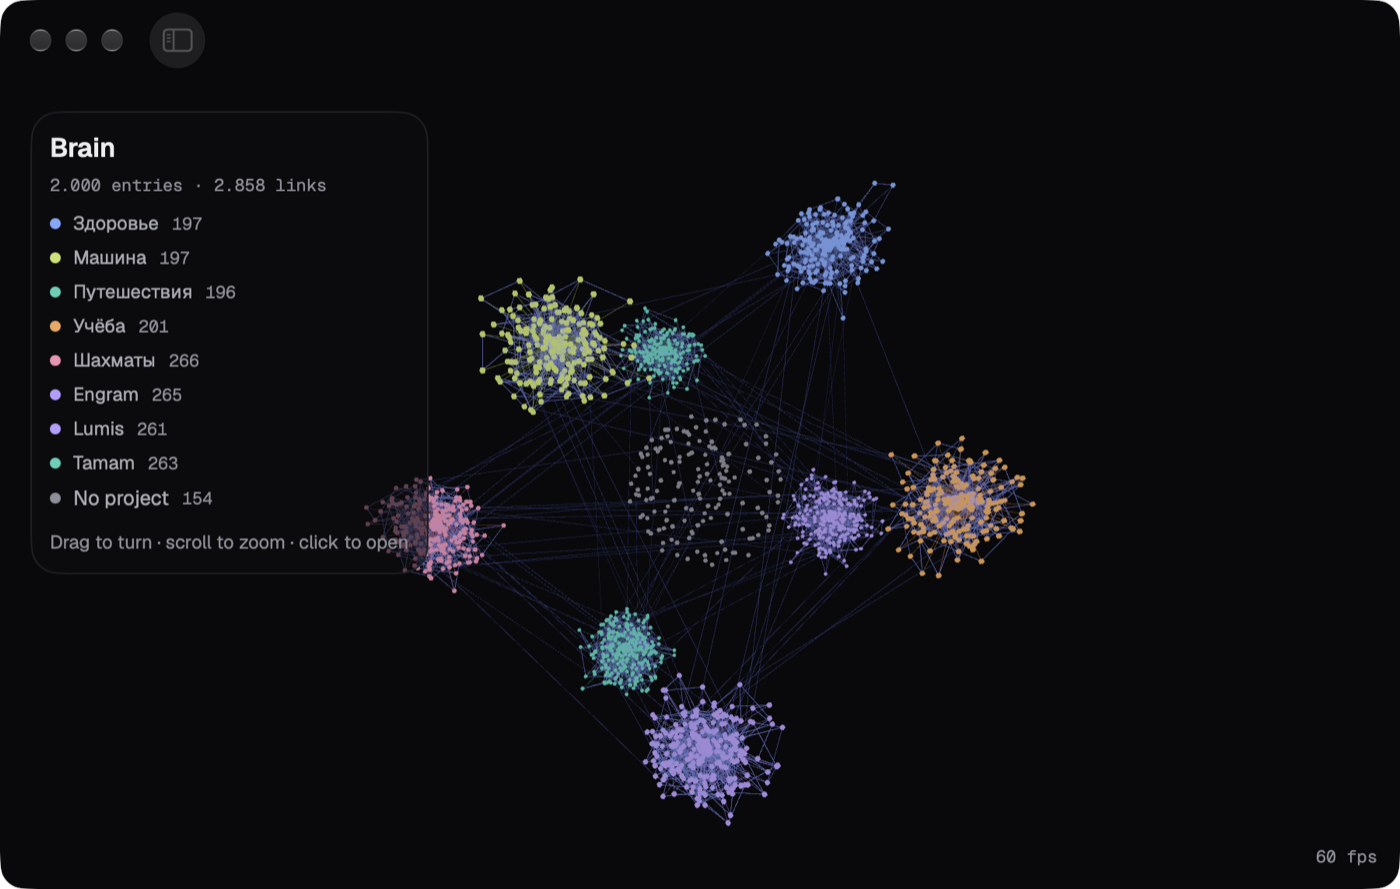
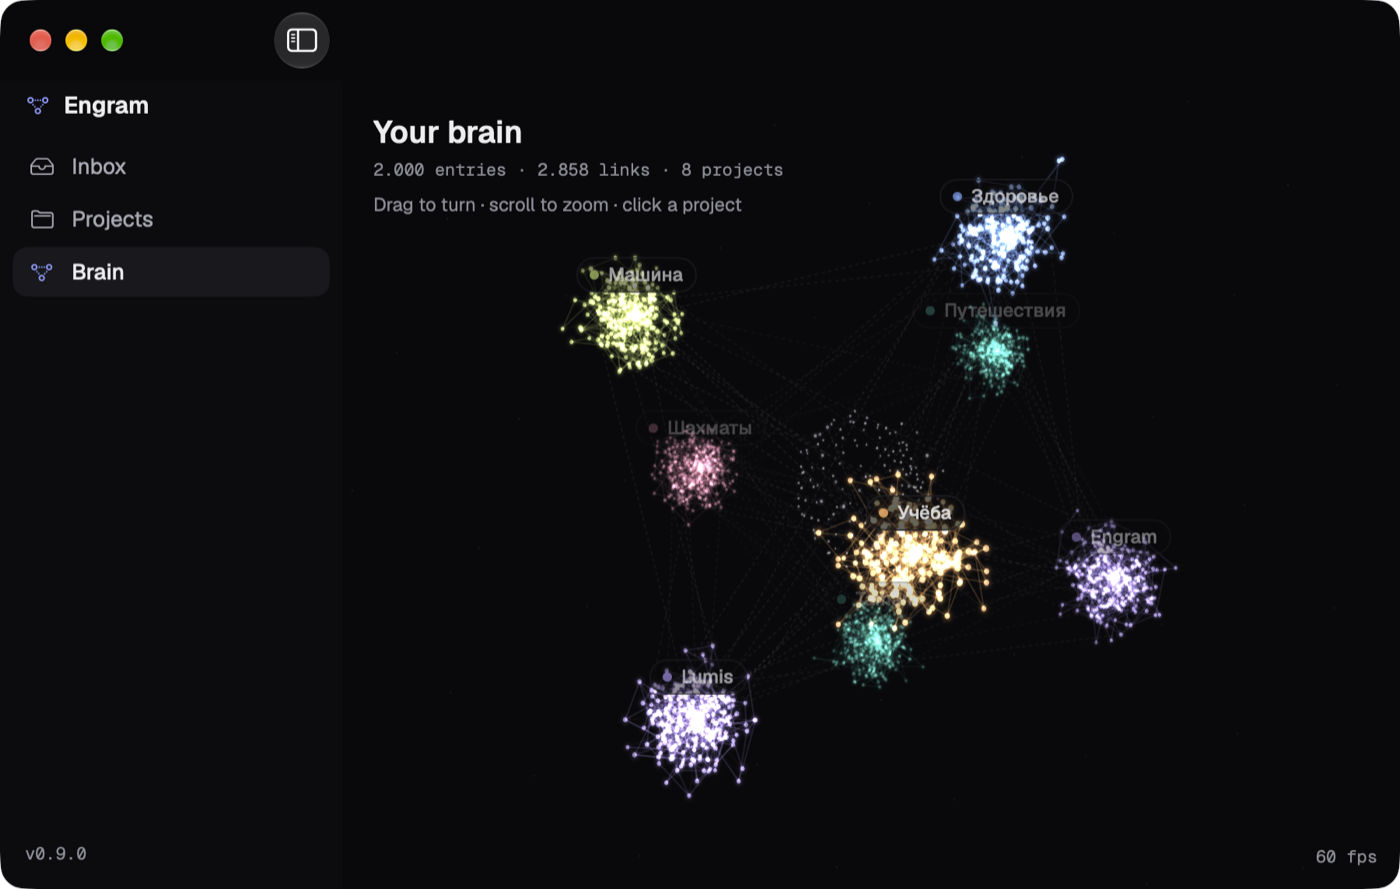
docs: record the Metal graph and the new connector tools
The README shows the new graph, the spec lists update_project and
complete_task and names Metal as the graph engine, and the progress
log adds the phase 9 follow-up with its decisions.

diff --git a/docs/PROGRESS.md b/docs/PROGRESS.md
@@ -1,6 +1,6 @@
 # Progress
 
-**Current version:** 0.9.0 · **Current phase:** Phase 10 — Open-source launch · status: **not started**
+**Current version:** 0.9.1 · **Current phase:** Phase 10 — Open-source launch · status: **not started**
 
 Engram was rebuilt as a native macOS app on 2026-11-05 (see `docs/SPEC.md`). Phases 0–5 shipped the Next.js + Supabase web app, kept on the `web-archive` branch.
 
@@ -60,6 +60,11 @@ Engram was rebuilt as a native macOS app on 2026-11-05 (see `docs/SPEC.md`). Pha
 - [x] Legend, empty state, live updates; debug fps counter and picking markers
 - [x] `make demo-graph`: 2,000 entries and 2,858 links at 60 fps on the MacBook (screenshot in docs/images/brain.png)
 - [x] 78 tests; CHANGELOG, README, release v0.9.0
+
+## Phase 9 follow-up (v0.9.1, Mikhail's feedback)
+
+- [x] `update_project` and `complete_task` tools: in a real chat Claude couldn't update a page or tick a task
+- [x] Graph redrawn with Metal ("synapses"): glow, depth fog, link-sized dots, labels, pulses, flashes, hover highlight, focus + side panel; 60 fps on 2,000 entries
 
 ## Environments
 
@@ -138,6 +143,9 @@ Rows before 2026-11-05 describe the web app (now on the `web-archive` branch).
 | 2026-11-05 | RealityKit for the graph, with a dozen merged meshes and our own picking                 | SceneKit is deprecated; per-entity rendering wouldn't scale to 2,000 dots                              |
 | 2026-11-05 | Fixed, deterministic layout instead of a live physics simulation                         | Same picture every launch; the slow rotation gives the "alive" feel                                     |
 | 2026-11-05 | Entries of archived projects stay out of the graph                                       | The graph shows what is active                                                                         |
+| 2026-11-05 | Graph moved from RealityKit to a small Metal renderer (v0.9.1)                           | Mikhail found it flat; glow, fog and dashes need custom shaders                                        |
+| 2026-11-05 | Shaders compile at launch from source, and a test compiles them                          | No Metal toolchain download needed to build; a shader typo can't ship silently                         |
+| 2026-11-05 | Dedicated `update_project` and `complete_task` tools                                     | Claude didn't discover `contextUpdates` inside `save_to_engram` in a real chat                          |
 
 ## Open questions
 

diff --git a/docs/SPEC.md b/docs/SPEC.md
@@ -61,7 +61,7 @@ flowchart LR
 | Storage      | SQLite via GRDB.swift, WAL mode                         | Explicit migrations, FTS5 full-text search, safe access from two processes   |
 | Connector    | MCP Swift SDK (`modelcontextprotocol/swift-sdk`), stdio | Official SDK; stdio needs no ports, tokens or network                        |
 | Search       | SQLite FTS5 (`unicode61`, prefix search)                | Works for mixed Russian and English, no embeddings and no second AI provider |
-| 3D graph      | RealityKit (`RealityView`), merged meshes                | SceneKit is deprecated since 2025; a dozen merged meshes keep 2,000 nodes at 60 fps |
+| 3D graph      | Metal (instanced sprites and lines, additive glow)       | Glow, depth fog and dashes that RealityKit on macOS 15 can't do; 60 fps on 2,000 entries |
 | Tests        | Swift Testing in EngramKit                              | Test where bugs live: save rules, context rules, search, MCP input checks    |
 | Distribution | GitHub Releases: zipped or DMG `.app`, ad-hoc signed    | No paid Apple Developer account needed; install steps documented             |
 
@@ -171,6 +171,8 @@ create virtual table entries_fts using fts5(
 | `get_project_context` | One project's summary, status, open tasks and recent entries; stack, decisions and ideas from Phase 8 |
 | `search_entries`      | Full-text search with optional project and kind filters, newest first on ties                                                                                                                     |
 | `list_tasks`          | Open tasks, optionally per project or due before a date                                                                                                                                           |
+| `update_project`      | Update a project page (summary, status, stack, decisions, ideas) without new entries |
+| `complete_task`       | Tick or untick a task by id |
 | `list_unsorted`       | Typed thoughts waiting to be sorted                                                                                                                                                               |
 | `sort_capture`        | File one unsorted capture, with the same entry shape as `save_to_engram`                                                                                                                          |
 

diff --git a/README.md b/README.md
@@ -7,7 +7,7 @@
 </p>
 
 <p align="center">
-  <img alt="Version" src="https://img.shields.io/badge/version-0.9.0-8B9CFF">
+  <img alt="Version" src="https://img.shields.io/badge/version-0.9.1-8B9CFF">
   <img alt="Status" src="https://img.shields.io/badge/status-in%20development-F2A65A">
   <img alt="License" src="https://img.shields.io/badge/license-MIT-3FD0B6">
   <img alt="Platform" src="https://img.shields.io/badge/macOS-15%2B-EDEDF0">
@@ -91,7 +91,7 @@ docs/                   spec and progress log
 
 ## Stack
 
-Swift 6, SwiftUI with small AppKit bridges, RealityKit for the graph, SQLite through [GRDB](https://github.com/groue/GRDB.swift) (WAL, FTS5), the [MCP Swift SDK](https://github.com/modelcontextprotocol/swift-sdk), Geist fonts, Swift Testing.
+Swift 6, SwiftUI with small AppKit bridges, Metal for the graph, SQLite through [GRDB](https://github.com/groue/GRDB.swift) (WAL, FTS5), the [MCP Swift SDK](https://github.com/modelcontextprotocol/swift-sdk), Geist fonts, Swift Testing.
 
 ## License
 
